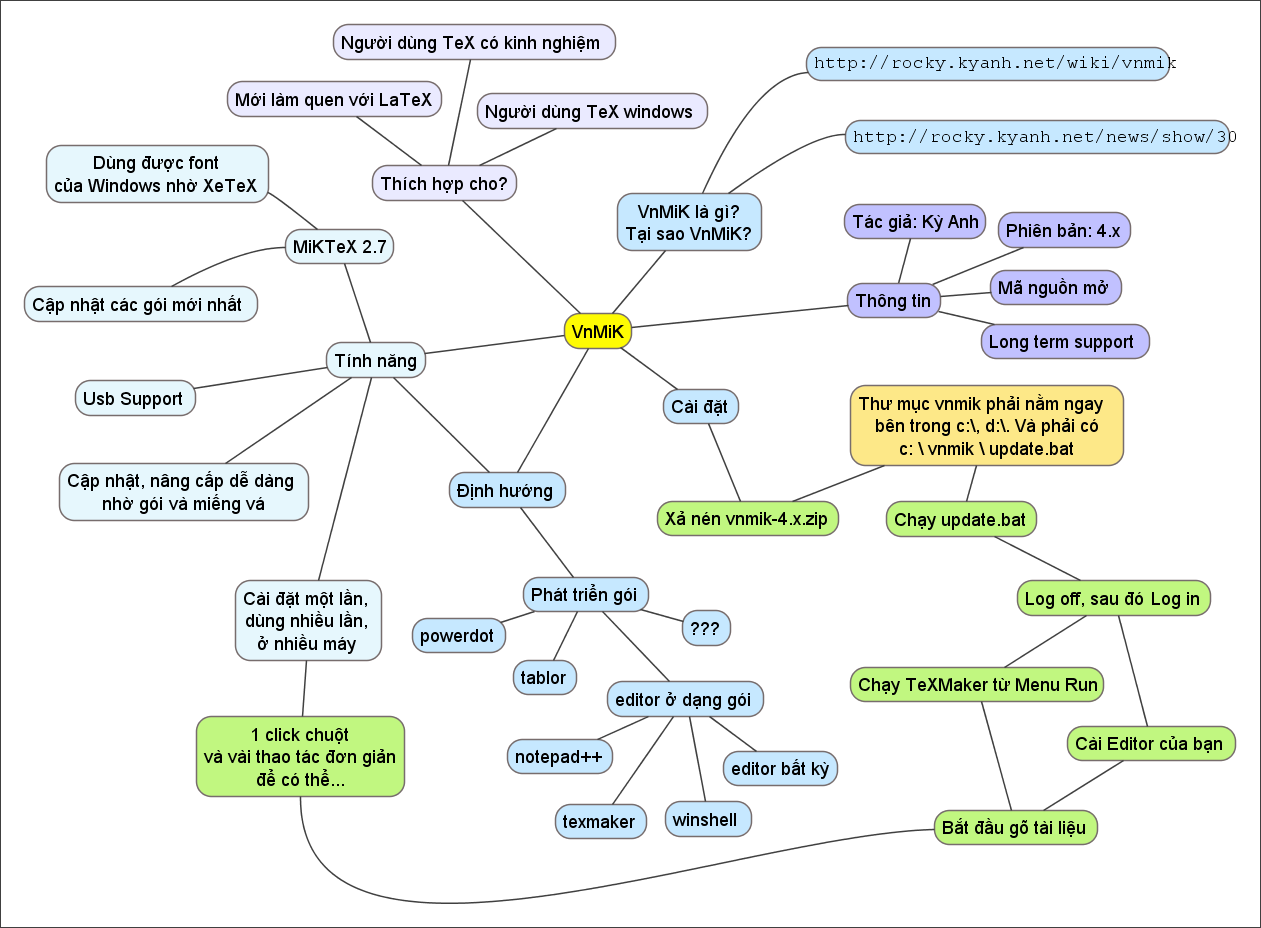
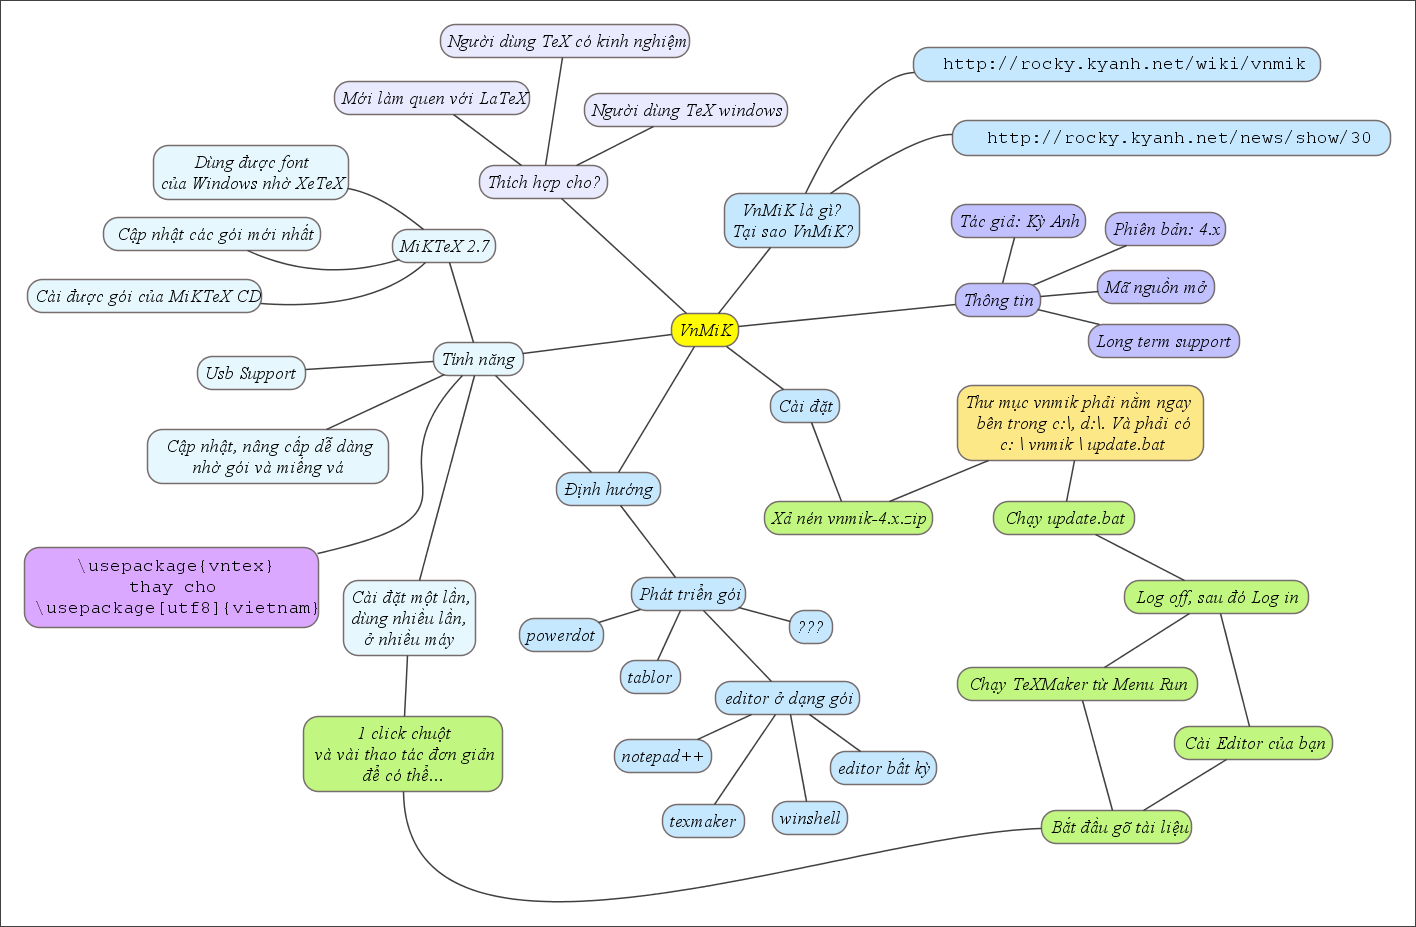
updated
git-svn-id: file:///home/svn/vnmik4@46 2864bf00-ae8a-11dd-aca0-c9a4f5028835

diff --git a/vnmik.doc/vnmik_doc.vue b/vnmik.doc/vnmik_doc.vue
@@ -1,7 +1,7 @@
 <!-- Tufts VUE 2.2.8 concept-map (vnmik_doc.vue) 2008-11-12 -->
 <!-- Tufts VUE: http://vue.tufts.edu/ -->
 <!-- Do Not Remove: VUE mapping @version(1.1) jar:file:/home/share.nix/xbin/VUE/VUE.jar!/tufts/vue/resources/lw_mapping_1_1.xml -->
-<!-- Do Not Remove: Saved date Wed Nov 12 01:04:44 ICT 2008 by kyanh on platform Linux 2.6.27-ARCH in JVM 1.6.0_10-b33 -->
+<!-- Do Not Remove: Saved date Wed Nov 12 02:18:43 ICT 2008 by kyanh on platform Linux 2.6.27-ARCH in JVM 1.6.0_10-b33 -->
 <!-- Do Not Remove: Saving version @(#)VUE: built July 2 2008 at 1658 by vue on Linux 2.4.21-53.EL i386 JVM 1.5.0_06-b05 -->
 <?xml version="1.0" encoding="US-ASCII"?>
 <LW-MAP xmlns:xsi="http://www.w3.org/2001/XMLSchema-instance"
@@ -1627,8 +1627,8 @@
     </child>
     <child ID="86"
         label="\usepackage{vntex}&#xa;thay cho&#xa;\usepackage[utf8]{vietnam}"
-        x="-358.76678" y="281.68698" width="193.0" height="50.0"
-        strokeWidth="1.0" autoSized="true" xsi:type="node">
+        x="-358.76678" y="281.68698" width="196.11328"
+        height="53.460968" strokeWidth="1.0" autoSized="false" xsi:type="node">
         <fillColor>#DAA9FF</fillColor>
         <strokeColor>#776D6D</strokeColor>
         <textColor>#000000</textColor>
@@ -1645,8 +1645,8 @@
         <URIString>http://vue.tufts.edu/rdf/resource/8cb7c338c0a8010939ea2de102d53393</URIString>
         <shape arcwidth="20.0" archeight="20.0" xsi:type="roundRect"/>
     </child>
-    <child ID="87" x="-168.28632" y="167.00002" width="102.11106"
-        height="119.46471" strokeWidth="1.0" autoSized="false"
+    <child ID="87" x="-163.95163" y="167.00002" width="97.776375"
+        height="119.68788" strokeWidth="1.0" autoSized="false"
         controlCount="2" arrowState="0" xsi:type="link">
         <strokeColor>#404040</strokeColor>
         <textColor>#404040</textColor>
@@ -1662,7 +1662,7 @@
         </metadata-list>
         <URIString>http://vue.tufts.edu/rdf/resource/8cb7c339c0a8010939ea2de18ed9648c</URIString>
         <point1 x="-66.675255" y="167.50002"/>
-        <point2 x="-167.78632" y="285.96472"/>
+        <point2 x="-163.45163" y="286.1879"/>
         <ID1 xsi:type="node">19</ID1>
         <ID2 xsi:type="node">86</ID2>
         <ctrlPoint0 x="-135.47827" y="239.06642" xsi:type="point"/>
